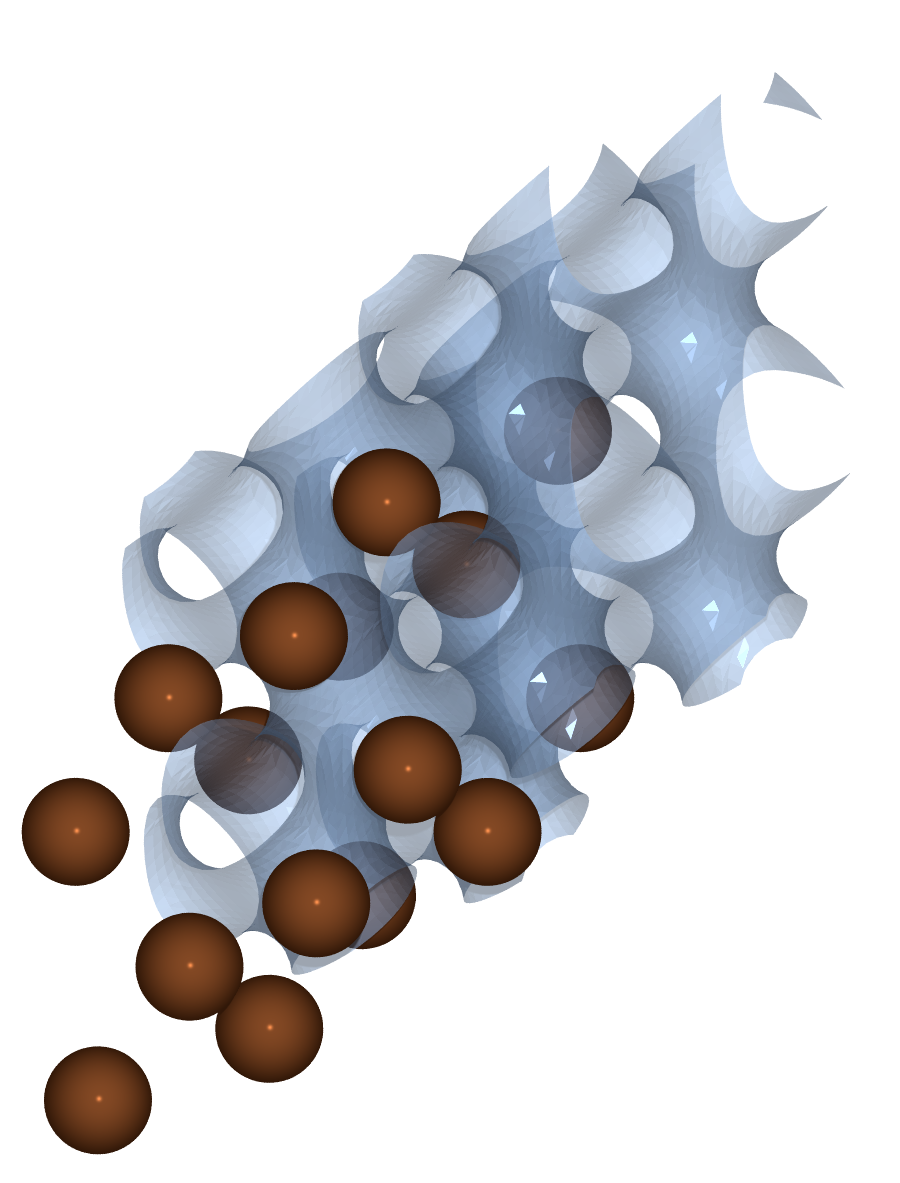
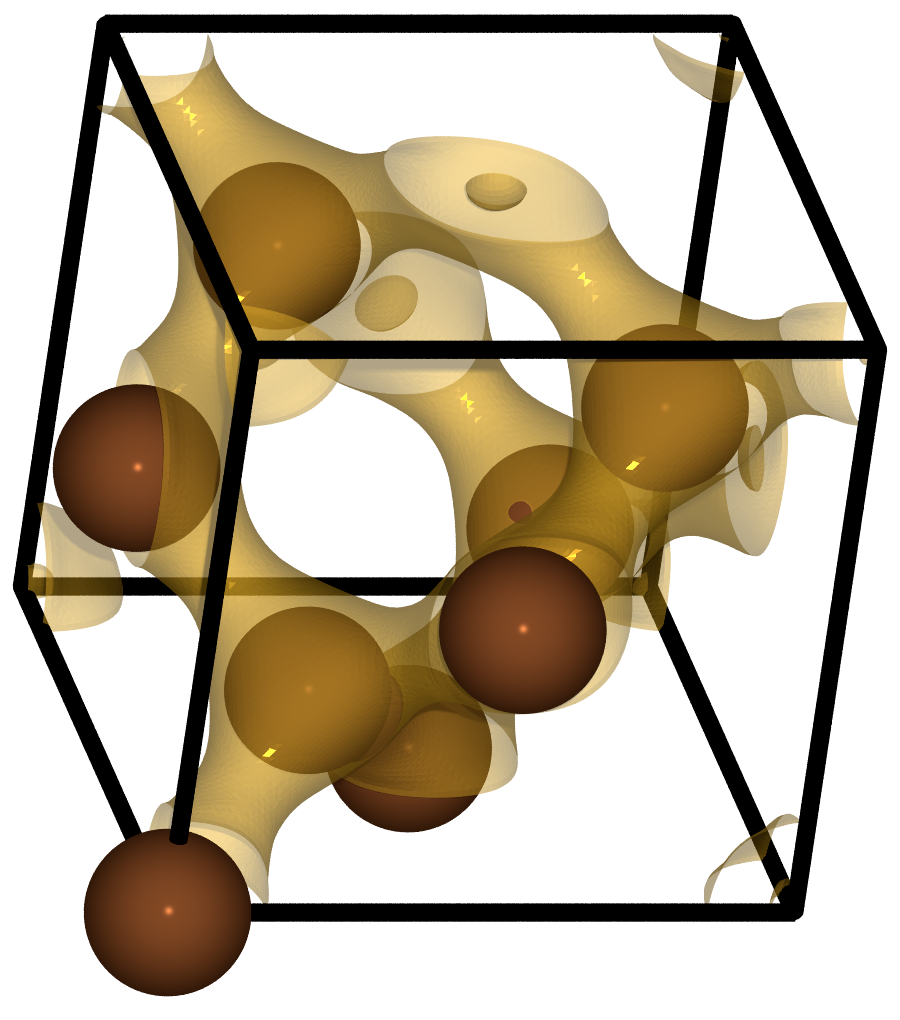
docs: re-render diamond density/ELF on the conventional cubic cell
The old renders tiled the skewed primitive cell, so ELF bond lobes crossing
the supercell boundary were sliced into floating fragments, on a mixed
black/white background. The cubic cell keeps every bond midpoint interior:
single cell + frame, no cut lobes. Also: --color-scheme custom is required
for --iso-color to apply (the old orange was silently rendering blue), and
the density isosurface moves to 1.3 e/Å³ where it traces the bond network.

diff --git a/examples/volumetric_density.py b/examples/volumetric_density.py
@@ -1,8 +1,8 @@
 """Volumetric export: the valence charge density and ELF of diamond.
 
-Runs a norm-conserving SCF on the 2-atom diamond cell, writes the total valence
-density ρ(r) and the electron-localization function ELF(r) to VASP CHGCAR files,
-and renders a 2x2x2 supercell isosurface of each with tinykit (POV-Ray). The
+Runs a norm-conserving SCF on the 8-atom conventional diamond cell, writes the
+total valence density ρ(r) and the electron-localization function ELF(r) to VASP
+CHGCAR files, and renders an isosurface of each with tinykit (POV-Ray). The
 density isosurface traces the tetrahedral covalent bonds; the ELF isosurface
 (Becke and Edgecombe, J. Chem. Phys. 92, 5397 (1990)) localizes on the bond
 midpoints, the signature of covalent bonding.
@@ -13,7 +13,7 @@ convention), so ASE's VaspChargeDensity reader — and tinykit, which is built o
 it — recover ρ(r) in e/Å³.
 
 Fixtures: tests/fixtures/qe/pseudos/C_ONCV_PBE-1.2.upf (SG15 ONCV, PBE).
-Runtime: ~30 s SCF on 8 CPU threads, plus a POV-Ray render per isosurface.
+Runtime: ~2 min SCF on 8 CPU threads, plus a POV-Ray render per isosurface.
 
 Run:
     uv run python examples/volumetric_density.py --outdir examples
@@ -42,26 +42,40 @@ PSE = "tests/fixtures/qe/pseudos"
 
 
 def diamond_scf():
-    """Converged SCF for the 2-atom diamond primitive cell."""
+    """Converged SCF for the 8-atom conventional (cubic) diamond cell.
+
+    The cubic cell is chosen over the 2-atom primitive one for the renders:
+    every C-C bond midpoint — where the ELF and bond-density lobes live — is
+    interior to the cube, so tiling it gives isosurfaces with no lobes cut at
+    a skewed supercell boundary."""
     c = parse_upf(f"{PSE}/C_ONCV_PBE-1.2.upf")
     a = 3.567  # Å, experimental lattice constant
-    cell = a / 2 * np.array([[0.0, 1, 1], [1, 0, 1], [1, 1, 0]])
-    pos = np.array([[0.0, 0, 0], [0.25, 0.25, 0.25]]) @ cell
-    system = setup_system(cell, pos, [0, 0], [c, c], ecut=50 * RY,
-                          kmesh=(4, 4, 4), nbands=8)
+    cell = a * np.eye(3)
+    frac = np.array([[0.0, 0.0, 0.0], [0.0, 0.5, 0.5],
+                     [0.5, 0.0, 0.5], [0.5, 0.5, 0.0],
+                     [0.25, 0.25, 0.25], [0.25, 0.75, 0.75],
+                     [0.75, 0.25, 0.75], [0.75, 0.75, 0.25]])
+    pos = frac @ cell
+    system = setup_system(cell, pos, [0] * 8, [c], ecut=50 * RY,
+                          kmesh=(2, 2, 2), nbands=20)
     return scf(system, PBE(), etol=1e-8, rhotol=1e-7, verbose=False)
 
 
 def render(chgcar: Path, png: Path, isovalue: float, color: str) -> bool:
-    """Render a 2x2x2 supercell isosurface of a CHGCAR with tinykit."""
+    """Render a single-cell isosurface of a CHGCAR with tinykit. One cubic
+    cell with the frame drawn reads best: every bond lobe is interior, so
+    nothing is cut at a boundary. --color-scheme custom is required or
+    --iso-color is silently ignored."""
     if shutil.which("tk") is None:
         print(f"  [skip render] tk not on PATH; wrote {chgcar.name}")
         return False
     cmd = [
         "tk", "viz", str(chgcar), "-o", str(png),
-        "--supercell", "2", "2", "2",
-        "--isovalue", str(isovalue), "--iso-color", color,
-        "--rotation", "-70", "10", "0", "--width", "900", "--height", "700",
+        "--supercell", "1", "1", "1", "--show-cell",
+        "--isovalue", str(isovalue),
+        "--color-scheme", "custom", "--iso-color", color,
+        "--mesh-refinement", "3",
+        "--rotation", "-60", "15", "0", "--width", "900", "--height", "700",
     ]
     subprocess.run(cmd, check=True)
     print(f"  wrote {png.name}")
@@ -90,8 +104,10 @@ def main():
     print(f"  wrote {Path(rho_chg).name}, {Path(elf_chg).name}")
 
     if not args.no_render:
+        # 1.3 e/Å³ traces the connected covalent bond network; 0.55 gives an
+        # extended sheet in the cubic cell
         render(Path(rho_chg), outdir / "diamond_density.png",
-               isovalue=0.55, color="0.95,0.72,0.20")
+               isovalue=1.3, color="0.95,0.72,0.20")
         render(Path(elf_chg), outdir / "diamond_elf.png",
                isovalue=0.85, color="0.35,0.65,0.85")
 

diff --git a/docs/manual/postscf-analysis.md b/docs/manual/postscf-analysis.md
@@ -33,8 +33,8 @@ built on it, recovers ρ(r) in e/Å³. From the YAML interface the same fields c
 from an `output.volumetric` block with `format: chgcar` (see
 [Inputs and outputs](io.md#volumetric-export)).
 
-`examples/volumetric_density.py` runs an SCF on the 2-atom diamond cell, writes
-the density and ELF, and renders a 2×2×2 supercell isosurface of each:
+`examples/volumetric_density.py` runs an SCF on the 8-atom conventional diamond
+cell, writes the density and ELF, and renders an isosurface of each:
 
 ```bash
 uv run python examples/volumetric_density.py --outdir examples
@@ -44,14 +44,15 @@ uv run python examples/volumetric_density.py --outdir examples
   ![Diamond valence density and ELF isosurfaces](img/diamond_density.png){ width="360" }
   ![](img/diamond_elf.png){ width="360" }
   <figcaption>Left: the valence charge density of diamond, isosurface at
-  0.55 e/Å³, traces the connected covalent network and the empty channels along
+  1.3 e/Å³, traces the connected covalent network and the empty channels along
   the tetrahedral voids. Right: the ELF at 0.85 localizes on the bond midpoints,
-  the signature of the covalent C-C pair. Both are 2×2×2 supercells rendered from
-  a CHGCAR with <code>tk viz</code>.</figcaption>
+  the signature of the covalent C-C pair. Both are the conventional cubic cell
+  rendered from a CHGCAR with <code>tk viz</code>.</figcaption>
 </figure>
 
-A supercell tiling reads more clearly than the primitive cell for a periodic
-field, and a planar slice through the same grid is the other useful view. The
+The conventional cubic cell reads more clearly than the skewed primitive cell
+for a periodic field (and keeps every bond lobe interior to the frame), and a
+planar slice through the same grid is the other useful view. The
 density integrates to the electron count, the single-state PARCHG integrates to
 one, and the occupation-weighted sum of the PARCHG densities returns the total
 density, all to machine precision (`tests/integration/test_volumetric.py`).
